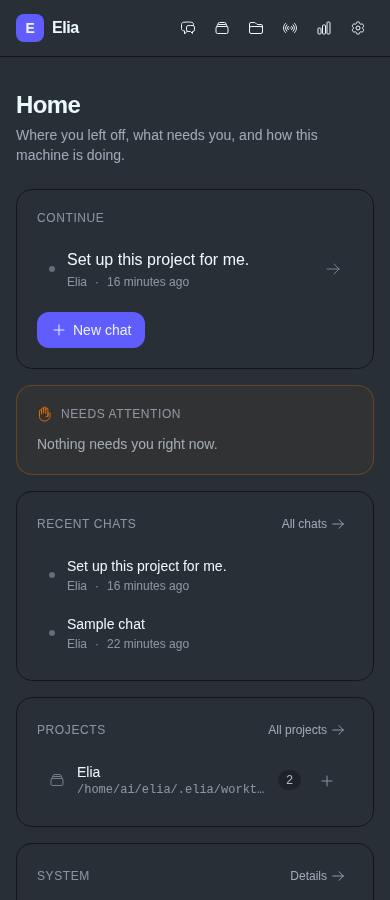
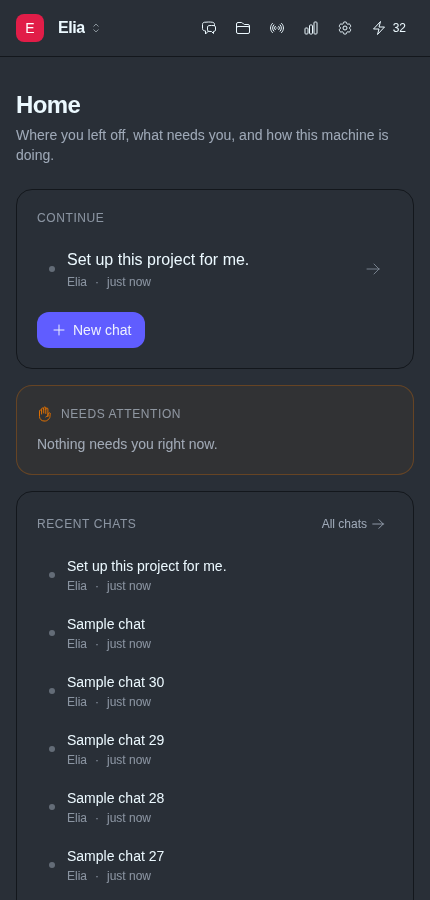
docs: retake the README screenshots and say what Elia does
The four pictures in docs/screenshots/ were taken in November, before the
dashboard, the chat's cards and the settings page changed. Retaken with
bin/preview at the width the default phone preview now uses (430, PREVIEW-9),
dark theme, on the sample data a preview seeds (PREVIEW-10, PREVIEW-15), and
the captions say what each one now shows.

The README also says what the thing does: a jailed command (ISOL), a chat's
network setting (NET), approvals, folder skills, sub-tasks, projects, chats
as files, the guardrails on its own code, and the spec corpus. And it says
plainly that it is vibe coded.

diff --git a/README.md b/README.md
@@ -12,6 +12,59 @@ the code are in `docs/agents/` — [`harness.md`](docs/agents/harness.md),
 [`frontend.md`](docs/agents/frontend.md) and
 [`testing.md`](docs/agents/testing.md).
 
+**Elia is vibe coded.** It was built in conversation with a model: most of its
+code, and every spec it is written against, came out of chats like the ones it
+runs — a request, a draft spec, an approval, the code, the tests, a commit. It
+isn't hand-written and doesn't pretend to be, so expect a tree that grew by
+whatever the last conversation wanted, held in place by the specs in `specs/`
+and the tests that pin them.
+
+## What it does
+
+- **Jailed commands.** Everything Elia runs for a turn — a `shell` command, a
+  folder skill's script, a terminal, even the deploy's own `git` calls — goes
+  through one bubblewrap jail holding a single tree: the project folder the chat
+  works in, with a read-only toolchain beside it (ISOL-1, ISOL-13). `$HOME` is
+  not in there, so a credential store, the settings database and every other
+  project are absent whatever path a command asks for (ISOL-5). The jail is on
+  by default, is a chat's own setting, and is a second line behind the approval
+  prompt rather than a replacement for it (ISOL-11, ISOL-16); with it off, the
+  approval prompt says so (ISOL-17).
+- **A network setting per chat.** Unrestricted, an allowlist, or nothing at all.
+  A chat starts allowlisted: its commands reach only the hosts the chat or its
+  project names, through the harness's own proxy, so a host nobody named is
+  unreachable rather than merely refused (NET-1, NET-28). When a command needs
+  one, the agent asks, and the question is a card in the transcript the user
+  answers (NET-30, NET-32).
+- **Nothing acts without approval.** Shell commands, script tools and starting a
+  terminal pause for the user, unless the chat's auto-approval says otherwise
+  (APPR, TERM-10).
+- **The agent extends itself.** A skill is a folder — `skills/<name>/SKILL.md`
+  with instructions, and `tools.json` for script-backed tools — which is how
+  Elia grows a tool without its Elixir changing: drop it in, call
+  `reload_skills`, and it is there (SKILL, FOLDER).
+- **Sub-tasks.** `spawn_task` hands a self-contained step to a child chat with a
+  fresh context; the child commits on its own branch for its parent to merge,
+  and `await_task` brings back what it said (SUBTASK-23, SUBTASK-9).
+- **Projects.** A chat works in a project folder, and the project supplies its
+  own `AGENTS.md`, its own skills and its own host allowlist; Elia's own project
+  is just the first one (PROJ-12, PROJ-15).
+- **Chats are files.** Conversations are saved under `.elia/sessions/` — there is
+  no database — and the agent can list, read and search chats other than the one
+  it is in (STORE, HIST, SEARCH).
+- **Guardrails on its own code.** A chat in Elia's own project changes it in a
+  git worktree and merges into `master` itself, and only a deploy from the
+  Settings page — after the full suite — brings it live (DEPLOY-28, DEPLOY-13);
+  `/recover` is the plain-HTML way back when a deploy breaks the UI anyway
+  (RECOVER-10).
+- **Spec-driven.** Every feature has a spec in `specs/` and every requirement an
+  ID, and the suite fails on a spec that breaks the corpus's rules, on a
+  requirement no test accounts for, and on a citation of an ID no spec defines
+  (SPEC, TRACE, CITE).
+- **A phone-sized UI.** It installs as a web app and pushes a notification when
+  a chat needs you (PWA, PUSH), and `/system`, `/logs`, `/files`, `/sessions`
+  and `/recover` show the machine it runs on (SYS, LOG, EXPL, CLIENT, RECOVER).
+
 ## Getting started
 
 ### What it needs
@@ -181,18 +234,16 @@ deployment section of the Settings page names its address too (RECOVER-15).
 Taken from the app itself with `bin/preview`
 ([`specs/ui-preview.md`](specs/ui-preview.md)), on the sample data a preview
 seeds: the dark theme at a phone width (`ELIA_PREVIEW_THEME=dark`,
-`ELIA_PREVIEW_WIDTH=390`).
+`ELIA_PREVIEW_WIDTH=430`).
 
 ![The dashboard](docs/screenshots/dashboard.png)
 
-*The dashboard: what needs you, where you left off, the machine and the deploy
-state.*
+*The dashboard: where you left off, what needs you, and the recent chats.*
 
 ![A chat](docs/screenshots/chat.png)
 
-*A chat: a reply with Markdown and a code block, file links, tool calls with
-their output, one that failed, and the composer's chat menu showing the model
-(CSET-8).*
+*A chat: tool calls with their output, one that failed, a sub-task that
+finished, and a reply carrying two uploaded files.*
 
 ![A question with option buttons](docs/screenshots/question.png)
 
@@ -201,8 +252,8 @@ button, and there is always a field for an answer in their own words (ASK-4).*
 
 ![The settings page](docs/screenshots/settings.png)
 
-*`/settings`: a card per provider for its API key. The deploy section and push
-notifications follow below.*
+*`/settings`: a card per section — appearance, the LLM providers and their
+keys, deployment, and push notifications.*
 
 ## Tests and previews
 
